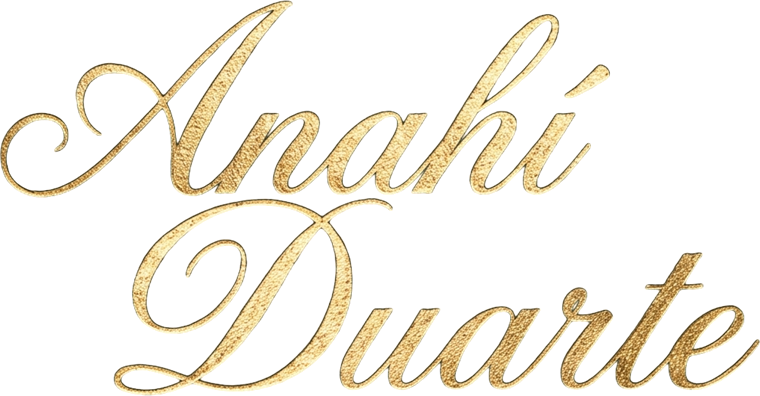
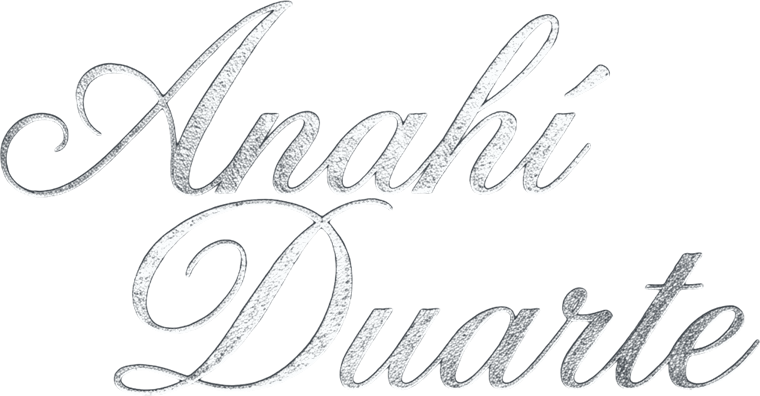
Nombre y broche en plata
El estampado del nombre pasa de oro a plata (mismo relieve, otro color)
y el broche de la correa también, para que todo el metal combine con
las anillas.

Changed region(s): [[0.0, 0.0, 1.0, 1.0], [0.7263, 0.1515, 0.8171, 0.2424]]

diff --git a/css/binder.css b/css/binder.css
@@ -83,15 +83,15 @@ body { font-family: "Inter", system-ui, sans-serif; color: var(--ink); -webkit-f
 }
 .cover-front .face { position: absolute; inset: 0; backface-visibility: hidden; -webkit-backface-visibility: hidden; }
 .cover-front .inside { transform: rotateY(180deg); background-position: 100% 0; }
-/* Nombre estampado en oro: recorte de la imagen de Gemini (img/nombre.png), no texto de código.
+/* Nombre estampado en plata: recorte de la imagen de Gemini (img/nombre.png), no texto de código.
    La sombra lo "hunde" en el cuero como un estampado a fuego real. */
 .cover-name { position: absolute; left: 4.6em; top: 5.2em; width: 23em; margin: 0; font-size: 1em; line-height: 0; }
 .cover-name img {
   width: 100%; height: auto; display: block;
   filter: drop-shadow(0 .07em .04em rgba(0,30,35,.6)) drop-shadow(0 -.03em 0 rgba(255,255,255,.12));
 }
-/* broche dorado, haciendo juego con el estampado */
-.leather-color .snap { background: radial-gradient(circle at 38% 35%, #fff6d8, #d9b36a 45%, #8a6424 80%, #3d2a0c); }
+/* broche plateado, haciendo juego con el estampado y las anillas */
+.leather-color .snap { background: radial-gradient(circle at 38% 35%, #ffffff, #c9ccce 45%, #6a6e71 80%, #2a2c2e); }
 /* La hebilla es el único lugar para abrir. Pistas sin texto: cursor, se corre al pasar, el broche brilla cada tanto. */
 .is-closed .strap { cursor: pointer; transition: left .45s cubic-bezier(.5,0,.2,1), transform .25s ease, filter .25s ease; }
 .is-closed .strap:hover { transform: translateX(.35em); filter: brightness(1.1); }
